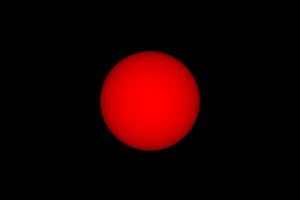
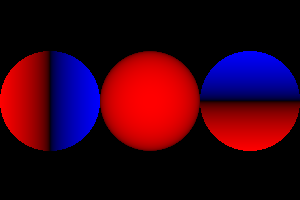
debug: normal components

Changed region(s): [[0.66, 0.24, 1.0, 0.78], [0.0, 0.24, 0.36, 0.78]]

diff --git a/r/unit_test.go b/r/unit_test.go
@@ -47,7 +47,9 @@ func TestNormal(tst *testing.T) {
 	t := Helper(tst)
 
 	e := NewEnv()
-	e.Add(Object(Sphere(Vec{0, 0, 2}, 0.25), ShadeNormal()))
+	e.Add(Object(Sphere(Vec{0, 0, 2}, 0.25), ShadeNormal(Ez)))
+	e.Add(Object(Sphere(Vec{-0.5, 0, 2}, 0.25), ShadeNormal(Ex)))
+	e.Add(Object(Sphere(Vec{0.5, 0, 2}, 0.25), ShadeNormal(Ey)))
 
 	t.Compare(e, Camera(0), "003-normals")
 }
@@ -56,7 +58,7 @@ func TestCamTransl(tst *testing.T) {
 	t := Helper(tst)
 
 	e := NewEnv()
-	e.Add(Object(Sphere(Vec{0, 0, 2}, 0.25), ShadeNormal()))
+	e.Add(Object(Sphere(Vec{0, 0, 2}, 0.25), ShadeNormal(Ez)))
 
 	t.Compare(e, Camera(0).Transl(-0.5, -0.25, 0), "004-camtransl")
 }
@@ -66,17 +68,18 @@ func TestCamRot(tst *testing.T) {
 
 	e := NewEnv()
 	r := 0.5
-	e.Add(Object(Sphere(Vec{0, 0, 0}, r), ShadeNormal()))
-	e.Add(Object(Sphere(Vec{0, 0, 2}, r), ShadeNormal()))
-	e.Add(Object(Sphere(Vec{0, 0, 4}, r), ShadeNormal()))
+	nz := ShadeNormal(Ez)
+	e.Add(Object(Sphere(Vec{0, 0, 0}, r), nz))
+	e.Add(Object(Sphere(Vec{0, 0, 2}, r), nz))
+	e.Add(Object(Sphere(Vec{0, 0, 4}, r), nz))
 
-	e.Add(Object(Sphere(Vec{2, 0, 0}, r), ShadeNormal()))
-	e.Add(Object(Sphere(Vec{2, 0, 2}, r), ShadeNormal()))
-	e.Add(Object(Sphere(Vec{2, 0, 4}, r), ShadeNormal()))
+	e.Add(Object(Sphere(Vec{2, 0, 0}, r), nz))
+	e.Add(Object(Sphere(Vec{2, 0, 2}, r), nz))
+	e.Add(Object(Sphere(Vec{2, 0, 4}, r), nz))
 
-	e.Add(Object(Sphere(Vec{-2, 0, 0}, r), ShadeNormal()))
-	e.Add(Object(Sphere(Vec{-2, 0, 2}, r), ShadeNormal()))
-	e.Add(Object(Sphere(Vec{-2, 0, 4}, r), ShadeNormal()))
+	e.Add(Object(Sphere(Vec{-2, 0, 0}, r), nz))
+	e.Add(Object(Sphere(Vec{-2, 0, 2}, r), nz))
+	e.Add(Object(Sphere(Vec{-2, 0, 4}, r), nz))
 
 	t.Compare(e, Camera(1).Transl(0, 4, -4).Transf(RotX4(pi/5)), "005-camrot")
 }
@@ -84,17 +87,19 @@ func TestCamRot(tst *testing.T) {
 func Benchmark9Spheres(b *testing.B) {
 	e := NewEnv()
 	r := 0.5
-	e.Add(Object(Sphere(Vec{0, 0, 0}, r), ShadeNormal()))
-	e.Add(Object(Sphere(Vec{0, 0, 2}, r), ShadeNormal()))
-	e.Add(Object(Sphere(Vec{0, 0, 4}, r), ShadeNormal()))
 
-	e.Add(Object(Sphere(Vec{2, 0, 0}, r), ShadeNormal()))
-	e.Add(Object(Sphere(Vec{2, 0, 2}, r), ShadeNormal()))
-	e.Add(Object(Sphere(Vec{2, 0, 4}, r), ShadeNormal()))
+	nz := ShadeNormal(Ez)
+	e.Add(Object(Sphere(Vec{0, 0, 0}, r), nz))
+	e.Add(Object(Sphere(Vec{0, 0, 2}, r), nz))
+	e.Add(Object(Sphere(Vec{0, 0, 4}, r), nz))
 
-	e.Add(Object(Sphere(Vec{-2, 0, 0}, r), ShadeNormal()))
-	e.Add(Object(Sphere(Vec{-2, 0, 2}, r), ShadeNormal()))
-	e.Add(Object(Sphere(Vec{-2, 0, 4}, r), ShadeNormal()))
+	e.Add(Object(Sphere(Vec{2, 0, 0}, r), nz))
+	e.Add(Object(Sphere(Vec{2, 0, 2}, r), nz))
+	e.Add(Object(Sphere(Vec{2, 0, 4}, r), nz))
+
+	e.Add(Object(Sphere(Vec{-2, 0, 0}, r), nz))
+	e.Add(Object(Sphere(Vec{-2, 0, 2}, r), nz))
+	e.Add(Object(Sphere(Vec{-2, 0, 4}, r), nz))
 
 	c := Camera(1).Transl(0, 4, -4).Transf(RotX4(pi / 5))
 	benchmark(b, e, c)

diff --git a/r/material.go b/r/material.go
@@ -21,14 +21,16 @@ func (s *flat) Shade(e *Env, N int, pos, norm Vec) Color {
 // -- normal
 
 // debug shader
-func ShadeNormal() Material {
-	return shadeNormal{}
+func ShadeNormal(dir Vec) Material {
+	return shadeNormal{dir}
 }
 
-type shadeNormal struct{}
+type shadeNormal struct {
+	dir Vec
+}
 
 func (s shadeNormal) Shade(e *Env, N int, pos, norm Vec) Color {
-	v := norm[Z]
+	v := norm.Dot(s.dir)
 	if v < 0 {
 		return RED.Mul(-v) // towards cam
 	} else {
